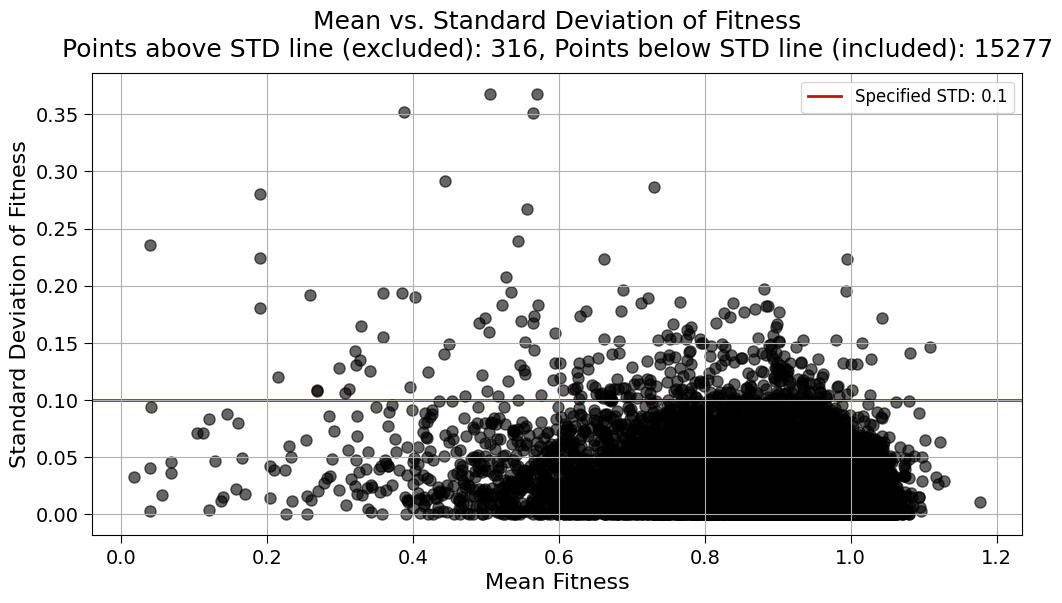
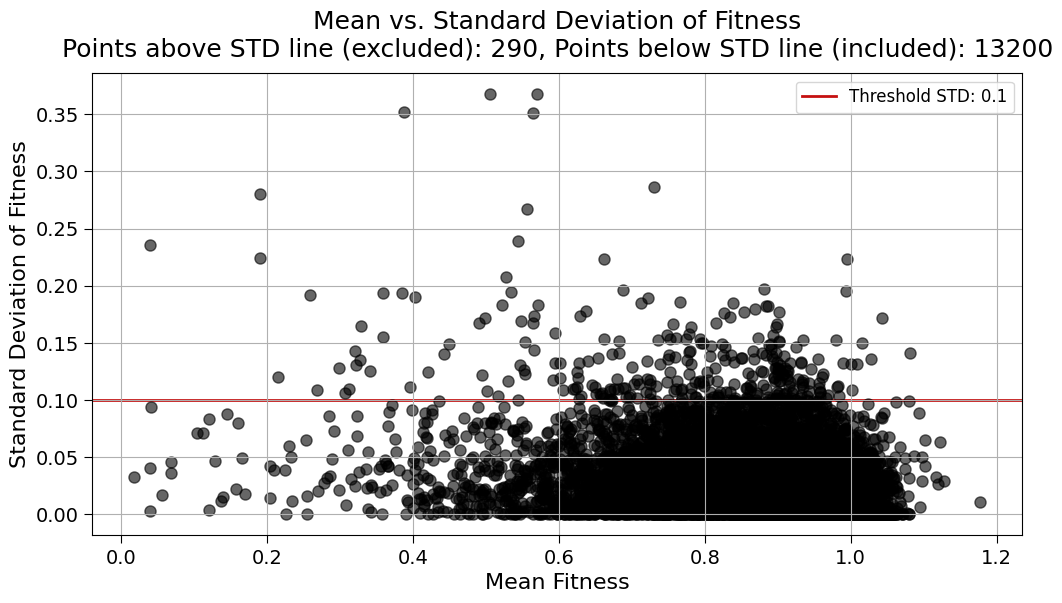
note dump

diff --git a/notes/scratch.2024.03.26.153244.yield.md b/notes/scratch.2024.03.26.153244.yield.md
@@ -1,0 +1,66 @@
+---
+id: vp82b5pcfgwlxf58g3btd1m
+title: Yield
+desc: ''
+updated: 1711486959332
+created: 1711485167662
+---
+29 in dmf
+
+```python
+def get_nodes(self):
+  log.info("Running: self._get_experiment_reference_nodes()")
+  yield from self._get_experiment_reference_nodes()
+  log.info("Running: self._get_genome_nodes()")
+  yield from self._get_genome_nodes()
+  log.info("Running: self.get_data_by_type(self._experiment_node)")
+  yield from self.get_data_by_type(self._experiment_node)
+  log.info("Running: self.get_data_by_type(self._genotype_node)")
+  yield from self.get_data_by_type(self._genotype_node)
+  log.info("Running: self.get_data_by_type(self._perturbation_node)")
+  yield from self.get_data_by_type(self._perturbation_node)
+  log.info("Running: self.get_data_by_type(self._environment_node)")
+  yield from self.get_data_by_type(self._environment_node)
+  log.info("Running: self._get_reference_environment_nodes()")
+  yield from self._get_reference_environment_nodes()
+  log.info("Running: self.get_data_by_type(self._media_node)")
+  yield from self.get_data_by_type(self._media_node)
+  log.info("Running: self._get_reference_media_nodes()")
+  yield from self._get_reference_media_nodes()
+  log.info("Running: self.get_data_by_type(self._temperature_node)")
+  yield from self.get_data_by_type(self._temperature_node)
+  log.info("Running: self._get_reference_temperature_nodes()")
+  yield from self._get_reference_temperature_nodes()
+  log.info("Running: self.get_data_by_type(self._phenotype_node)")
+  yield from self.get_data_by_type(self._phenotype_node)
+  log.info("Running: self._get_reference_phenotype_nodes()")
+  yield from self._get_reference_phenotype_nodes()
+  log.info("Running: self.get_dataset_nodes()")
+  yield from self.get_dataset_nodes()
+  log.info("Finished: get_nodes")
+
+def get_edges(self):
+  log.info("Running: self.get_reference_dataset_edges()")
+  yield from self.get_reference_dataset_edges()
+  log.info("Running: self.get_data_by_type(self._experiment_dataset_edge)")
+  yield from self.get_data_by_type(self._experiment_dataset_edge)
+  log.info("Running: self._get_reference_experiment_edges()")
+  yield from self._get_reference_experiment_edges()
+  log.info("Running: self.get_data_by_type(self._genotype_experiment_edge)")
+  yield from self.get_data_by_type(self._genotype_experiment_edge)
+  log.info("Running: self.get_data_by_type(self._perturbation_genotype_edges)")
+  yield from self.get_data_by_type(self._perturbation_genotype_edges)
+  log.info("Running: self.get_data_by_type(self._environment_experiment_edges)")
+  yield from self.get_data_by_type(self._environment_experiment_edges)
+  log.info("Running: self._get_environment_experiment_ref_edges()")
+  yield from self._get_environment_experiment_ref_edges()
+  log.info("Running: self.get_data_by_type(self._phenotype_experiment_edges)")
+  yield from self.get_data_by_type(self._phenotype_experiment_edges)
+  log.info("Running: self.get_data_by_type(self._media_environment_edge)")
+  yield from self.get_data_by_type(self._media_environment_edge)
+  log.info("Running: self.get_data_by_type(self._temperature_environment_edge)")
+  yield from self.get_data_by_type(self._temperature_environment_edge)
+  log.info("Running: self._get_genome_edges()")
+  yield from self._get_genome_edges()
+  log.info("Finished: get_edges")
+```

diff --git a/notes/user.Mjvolk3.torchcell.tasks.md b/notes/user.Mjvolk3.torchcell.tasks.md
@@ -2,21 +2,30 @@
 id: mnpdugjn34bm3mbx2xh1okf
 title: torchcell.tasks
 desc: ''
-updated: 1711380849327
+updated: 1711499130910
 created: 1690514887023m
 ---
 
 ![[user.mjvolk3.torchcell.tasks.future#future]]
 [[Outline|dendron://torchcell/paper.outline]]
 
+## 2024.03.26
+
+- [x] Rebuild `DmfCostanzo2016` nodes only, on `Delta` to investigate down cpu workers → Uses multiprocessing during duration of run.
+- [x] Rebuild `DmfCostanzo2016` nodes and edges on `Delta` to investigate down cpu workers → Looks like it starts to use multiprocessing during the beginning of the `write_edges`, but the starts using only a single process. → Couldn't easily identify the issue so did some light rewriting of the the adapter for this dataset, commented out, and reverted to using the [[torchcell.adapters.cell_adapter]]. → Started another `Delta` run with this with the belief that the issue is somehow in the modified class.
+- [x] [[2024.03.26 - Uncertain if is is Feasible to Keep a Base Class|dendron://torchcell/torchcell.datamodules.cell#20240326---uncertain-if-is-is-feasible-to-keep-a-base-class]]
+- [ ] `DmfCostanzo2016` adapter with [[torchcell.adapters.cell_adapter]] base class update? → `write_nodes` is looking roughly 3hr instead of 2hr.
+
+- [ ] CellDataModule
+
 ## 2024.03.25
 
 - [x] Check on database build. → [wandb log](https://wandb.ai/zhao-group/tcdb/runs/558kg0si?nw=nwusermjvolk3) Killed job because we only have one process working. I think this might be due to the memory spike. The expected time is also 11 hrs before seeing processes reengage which is a sign something is wrong. Restarting.
 - [x] Check `/var/lib/neo4j/import.report` for "bad" entries, consider rerun. → `There were bad entries which were skipped and logged into /var/lib/neo4j/import.report`, this typically indicates some missing links. In our case we have thousands of these.. `77e955a91470ec68c354e445391d0ea5c96f6fc3059a917a9e72811ae98b4b30 (global id space)-[PerturbationMemberOf]->858133554c1d66a52aca695ec905be65a7e8c6dfc984fb8d2cc5022f6b76a242 (global id space) referring to missing node 77e955a91470ec68c354e445391d0ea5c96f6fc3059a917a9e72811ae98b4b30` → Found the issue [[torchcell.adapters.cell_adapter]] we weren't returning lists of perturbation nodes.
 - [x] [[2024.03.25 - Some Cpus Not Utilized Because How We Set Workers|dendron://torchcell/torchcell.knowledge_graphs.create_scerevisiae_kg#20240325---some-cpus-not-utilized-because-how-we-set-workers]]
-- [ ] Run query to check edges
-- [ ] Run query on all data
-- [ ] Run query for fitness data
+- [x] Run query to check edges → [[2024.03.21 - Query that Identified ExperimentReferenceOfCount Issue in Database|dendron://torchcell/cypher-queries#20240321---query-that-identified-experimentreferenceofcount-issue-in-database]]
+- [x] Run query for fitness data [[torchcell.data.neo4j_cell]] → works now we need to handle duplicates
+- [ ] The thought on duplicates is to provide a deduplicator class that handles the duplicates. This depends on the details of how the modeler chooses to model the domain so we should just design an interface for doing so. For now I am hardcoding this in. → Writing a deduplicator class. →
 - [ ] Outline. Consider training on `pert` added to table
 - [ ] Harmonize data.
 - [ ] `One_Hot_Gene -->  Set_Net --> Fitness`

diff --git a/notes/torchcell.datamodules.cell.md b/notes/torchcell.datamodules.cell.md
@@ -2,7 +2,81 @@
 id: 7utg0wsflx2hsieybi6i39e
 title: Cell
 desc: ''
-updated: 1692324971975
+updated: 1711494690750
 created: 1692324679287
 ---
 - Describes data splitting and loading.
+
+## 2024.03.26 - Uncertain if is is Feasible to Keep a Base Class
+
+```python
+import lightning as L
+import torch
+from torch_geometric.loader import DataLoader
+
+
+class CellDataModule(L.LightningDataModule):
+    def __init__(
+        self,
+        dataset,
+        batch_size: int = 32,
+        num_workers: int = 0,
+        pin_memory: bool = False,
+    ):
+        super().__init__()
+        self.dataset = dataset
+        self.batch_size = batch_size
+        self.num_workers = num_workers
+        self.pin_memory = pin_memory
+        self.train_epoch_size = None
+        self.train_ratio = 0.8
+        self.val_ratio = 0.1
+        self.train_epoch_size = int(
+            len(self.dataset) * self.train_ratio / self.batch_size
+        )
+
+    def setup(self, stage=None):
+        # Split the dataset into train, val, and test sets
+        num_train = int(self.train_ratio * len(self.dataset))
+        num_val = int(self.val_ratio * len(self.dataset))
+        num_test = len(self.dataset) - num_train - num_val
+
+        (self.train_dataset, self.val_dataset, self.test_dataset) = (
+            torch.utils.data.random_split(self.dataset, [num_train, num_val, num_test])
+        )
+
+    def train_dataloader(self):
+        return DataLoader(
+            self.train_dataset,
+            batch_size=self.batch_size,
+            shuffle=True,
+            num_workers=self.num_workers,
+            pin_memory=self.pin_memory,
+            follow_batch=["x", "x_pert"],
+            # follow_batch=["x", "x_pert", "x_one_hop_pert"],
+        )
+
+    def val_dataloader(self):
+        return DataLoader(
+            self.val_dataset,
+            batch_size=self.batch_size,
+            num_workers=self.num_workers,
+            pin_memory=self.pin_memory,
+            follow_batch=["x", "x_pert"],
+            # follow_batch=["x", "x_pert", "x_one_hop_pert"],
+        )
+
+    def test_dataloader(self):
+        return DataLoader(
+            self.test_dataset,
+            batch_size=self.batch_size,
+            num_workers=self.num_workers,
+            pin_memory=self.pin_memory,
+            follow_batch=["x", "x_pert"],
+            # follow_batch=["x", "x_pert", "x_one_hop_pert"],
+        )
+
+
+if __name__ == "__main__":
+    pass
+```

diff --git a/notes/torchcell.knowledge_graphs.create_scerevisiae_kg_small.md b/notes/torchcell.knowledge_graphs.create_scerevisiae_kg_small.md
@@ -2,6 +2,27 @@
 id: xtvbc1lz7aq62xwwam0h1kc
 title: Create_scerevisiae_kg_small
 desc: ''
-updated: 1709787278856
+updated: 1711386983899
 created: 1709787278856
 ---
+
+## 2024.03.25 - Query to Check Database Edges
+
+Used this query [[2024.03.21 - Query that Identified ExperimentReferenceOfCount Issue in Database|dendron://torchcell/cypher-queries#20240321---query-that-identified-experimentreferenceofcount-issue-in-database]] and we find that we have all of the proper edges.
+
+```cypher
+MATCH (d:Dataset)
+WHERE d.id IN ["SmfCostanzo2016Dataset","DmfCostanzo2016Dataset", "SmfKuzmin2018Dataset", "DmfKuzmin2018Dataset", "TmfKuzmin2018Dataset"]
+OPTIONAL MATCH (d)<-[r1:ExperimentMemberOf]-(e:Experiment)
+WITH d, COUNT(r1) AS ExperimentMemberOfCount
+OPTIONAL MATCH (d)<-[:ExperimentMemberOf]-(e:Experiment)<-[r2:ExperimentReferenceOf]-(ref:ExperimentReference)
+RETURN d.id AS DatasetID, ExperimentMemberOfCount, COUNT(DISTINCT r2) AS ExperimentReferenceOfCount;
++---------------------------------------------------------------------------------+
+| DatasetID                | ExperimentMemberOfCount | ExperimentReferenceOfCount |
++---------------------------------------------------------------------------------+
+| "SmfCostanzo2016Dataset" | 20484                   | 20484                      |
+| "SmfKuzmin2018Dataset"   | 1539                    | 1539                       |
+| "DmfKuzmin2018Dataset"   | 410399                  | 410399                     |
+| "TmfKuzmin2018Dataset"   | 91111                   | 91111                      |
+| "DmfCostanzo2016Dataset" | 1000000                 | 1000000                    |
+```

diff --git a/notes/cypher-queries.md b/notes/cypher-queries.md
@@ -2,7 +2,7 @@
 id: ydbxmqdyihrdq3031le22al
 title: Cypher Queries
 desc: ''
-updated: 1711155500538
+updated: 1711386752708
 created: 1710904047926
 ---
 
@@ -27,3 +27,4 @@ neo4j@torchcell> MATCH (d:Dataset)
 | "DmfCostanzo2016Dataset" | 20705612                | 647050                     |
 +---------------------------------------------------------------------------------+
 ```
+
